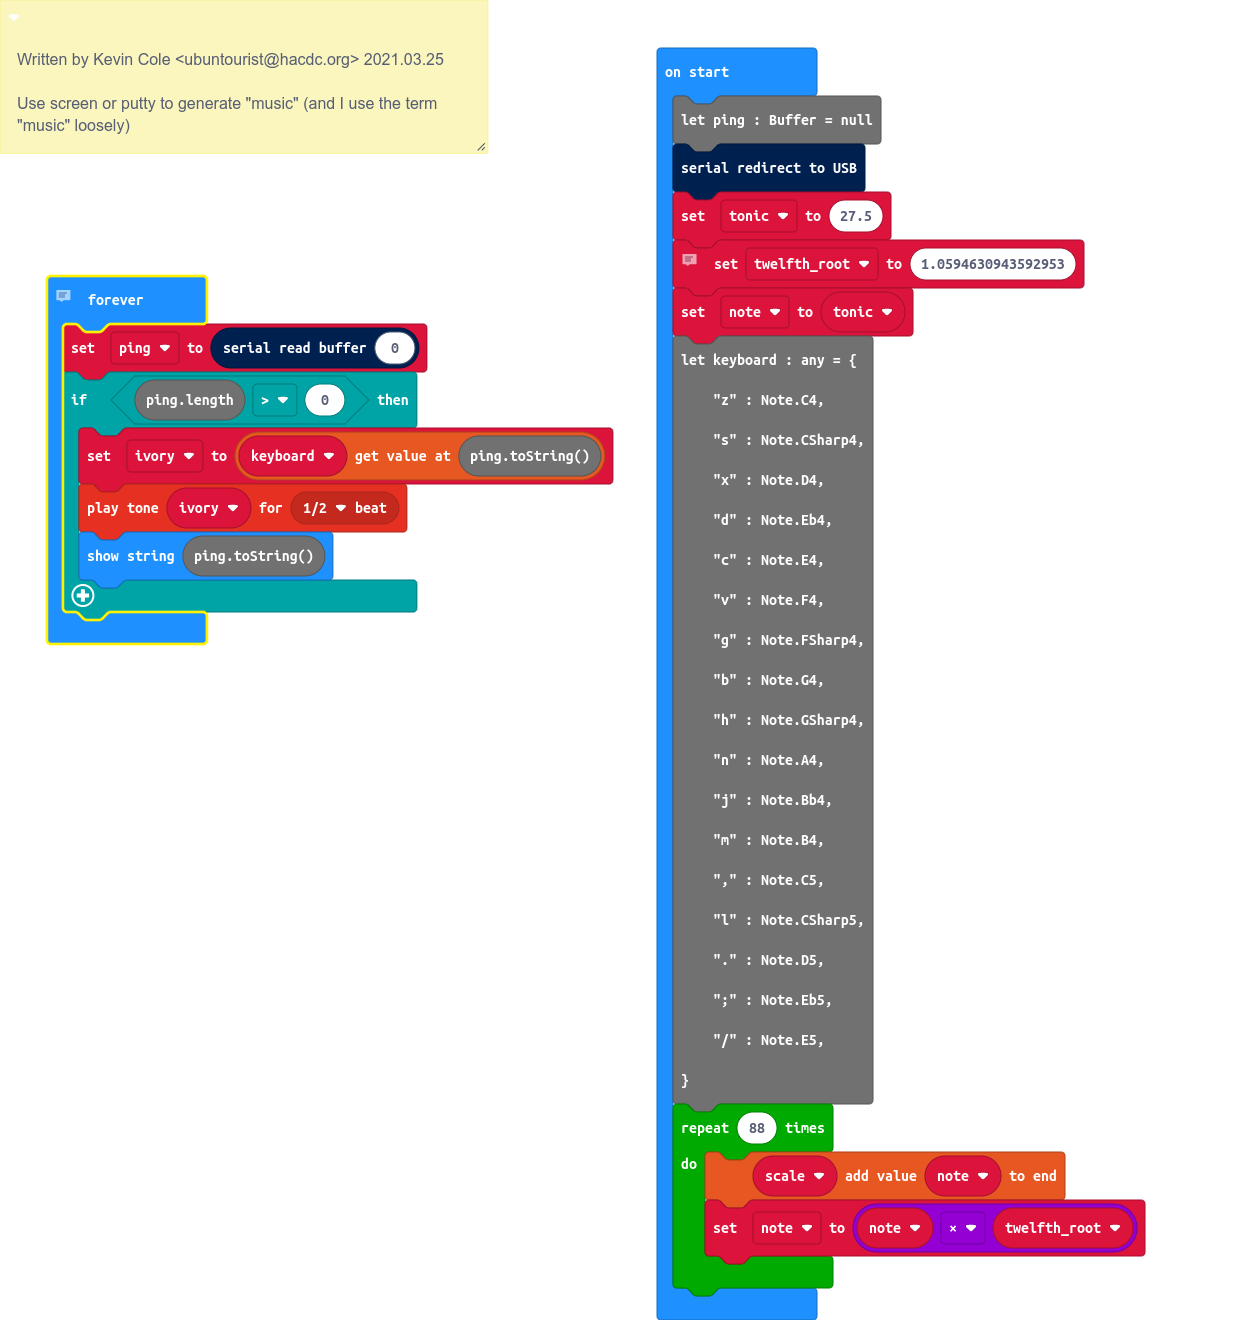
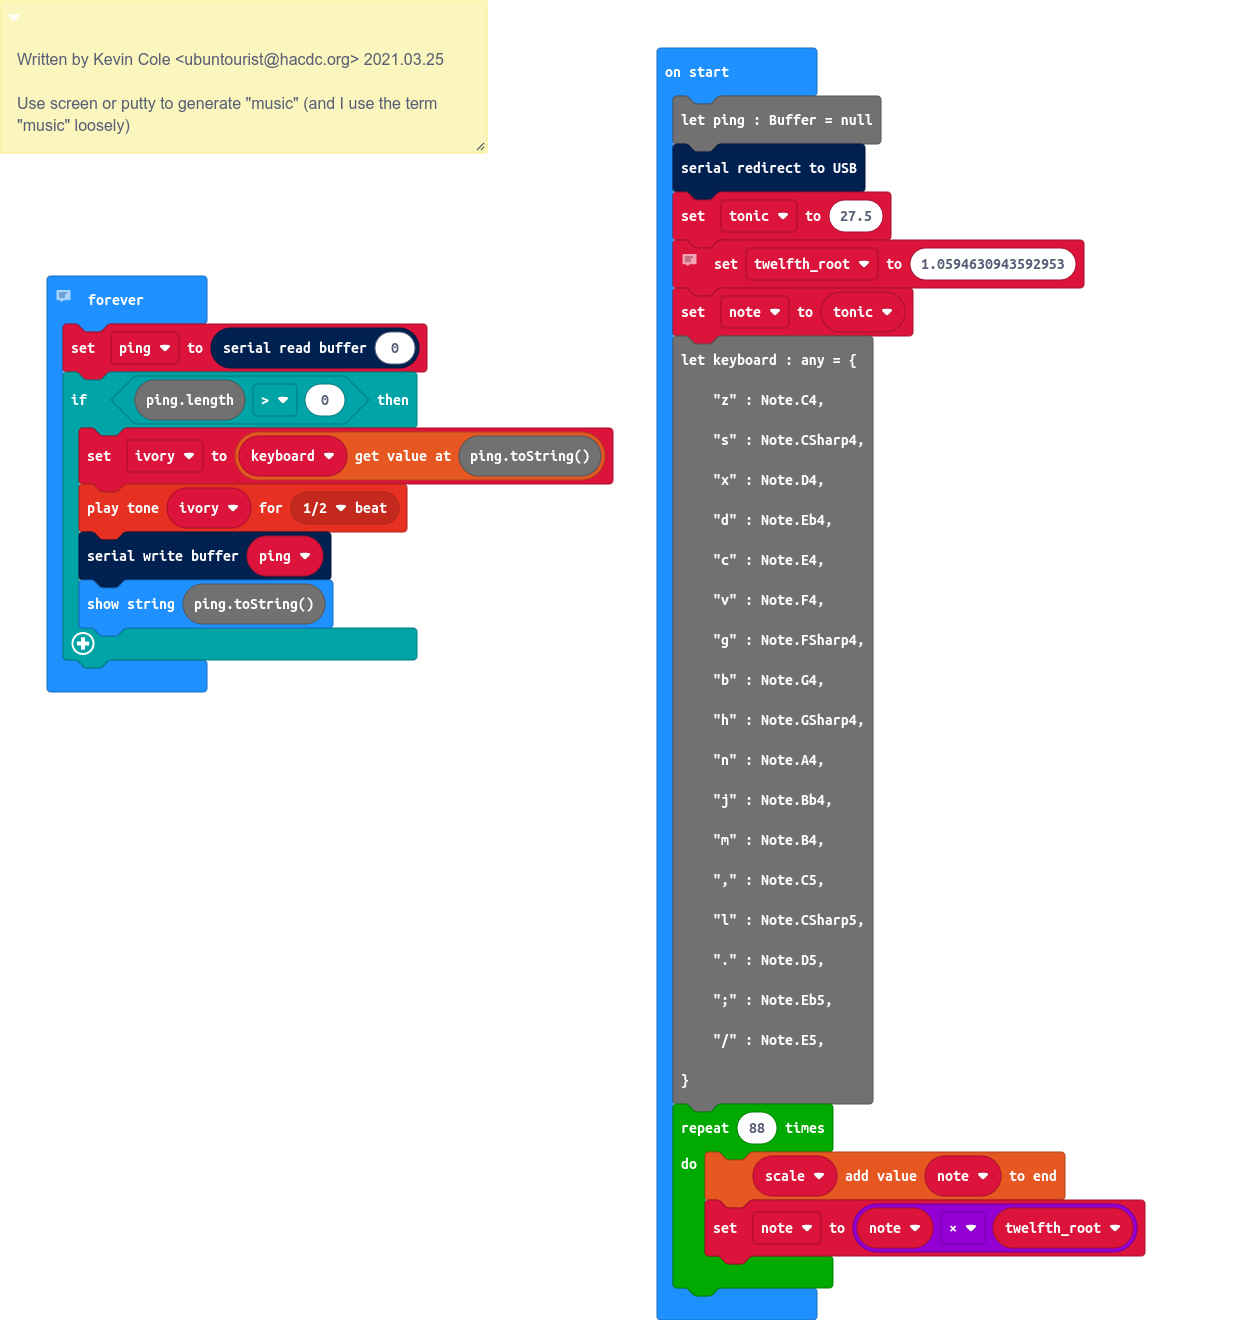
Echo keystrokes back to computer

Changed region(s): [[0.0312, 0.1864, 0.3435, 0.528], [0.1561, 0.2174, 0.1873, 0.2485], [0.0937, 0.2174, 0.1249, 0.2485]]

diff --git a/main.ts b/main.ts
@@ -42,6 +42,7 @@ basic.forever(function () {
     if (ping.length > 0) {
         ivory = keyboard[ping.toString()]
         music.playTone(ivory, music.beat(BeatFraction.Half))
+        serial.writeBuffer(ping)
         basic.showString("" + (ping.toString()))
     }
 })
